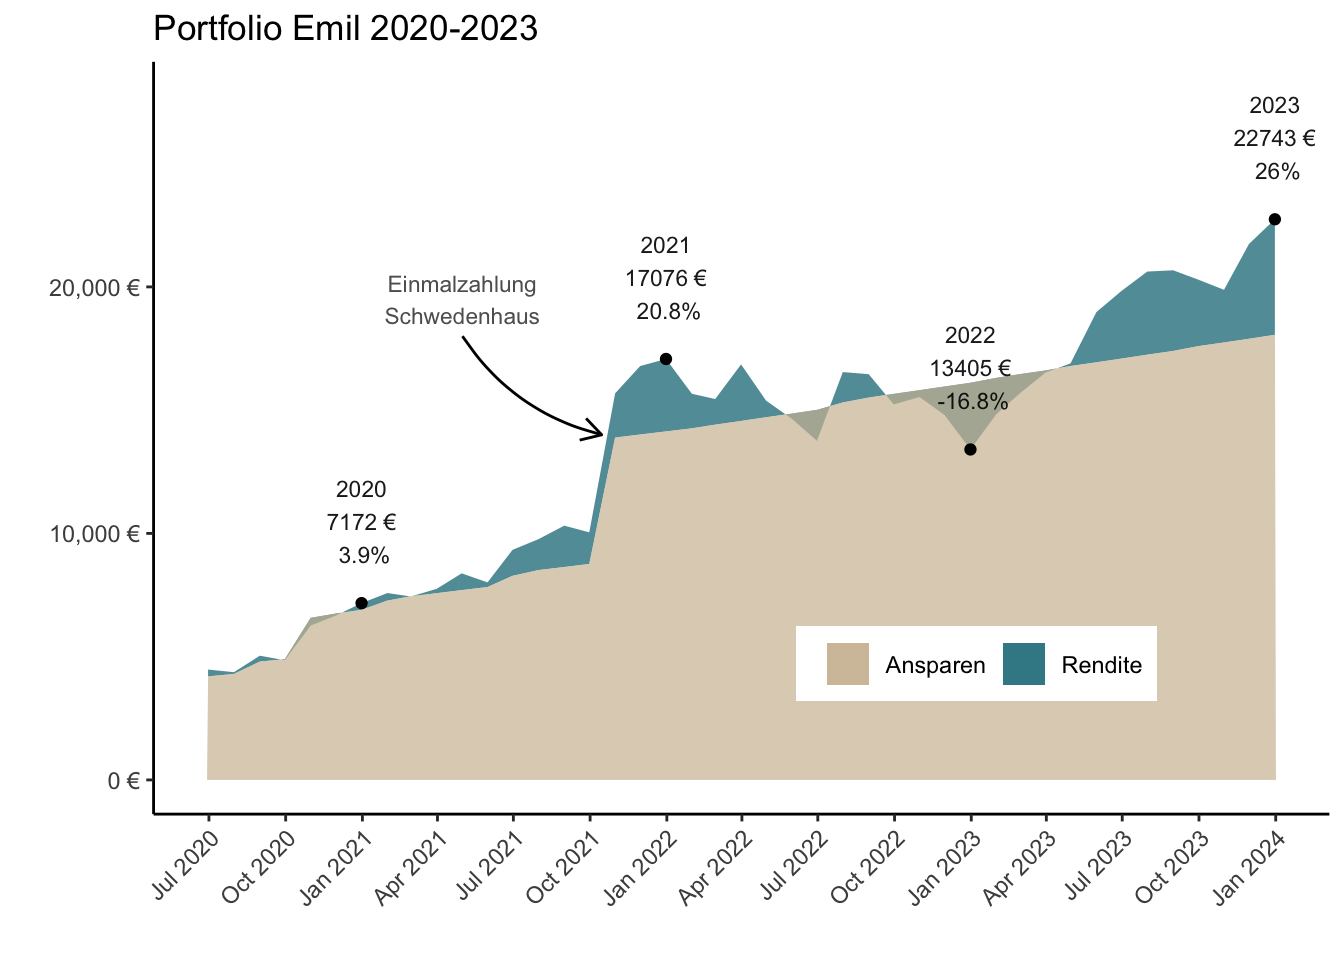
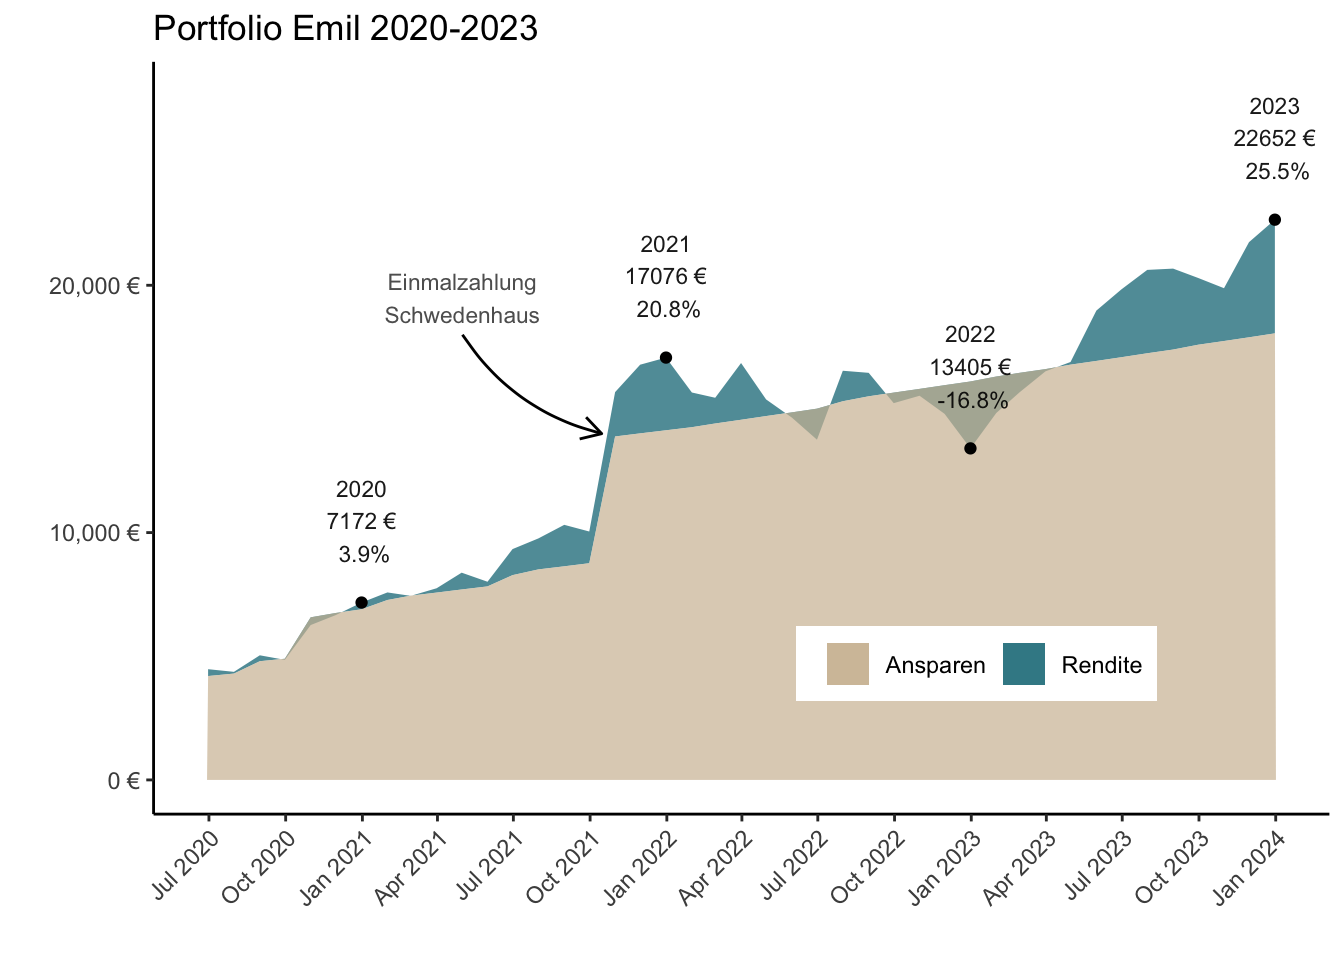
added some text

diff --git a/docs/sparplan-2023.html b/docs/sparplan-2023.html
@@ -359,7 +359,8 @@ div.tocify {
 <div id="emil-und-alva" class="section level2">
 <h2>Emil und Alva</h2>
 <p>Die Portfolios haben sich gut entwickelt und stehen Ende 2023
-deutlich im Plus.</p>
+deutlich im Plus. Emils Portfolio steht 25,5 % im Plus und Alvas 21,4
+%.</p>
 <p><img src="sparplan-2023_files/figure-html/unnamed-chunk-3-1.png" width="672" /></p>
 <p><img src="sparplan-2023_files/figure-html/unnamed-chunk-5-1.png" width="672" /></p>
 </div>
